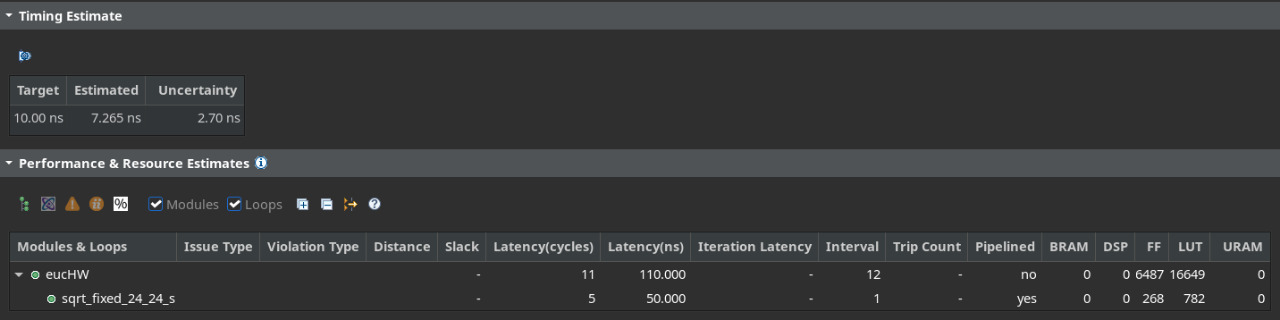
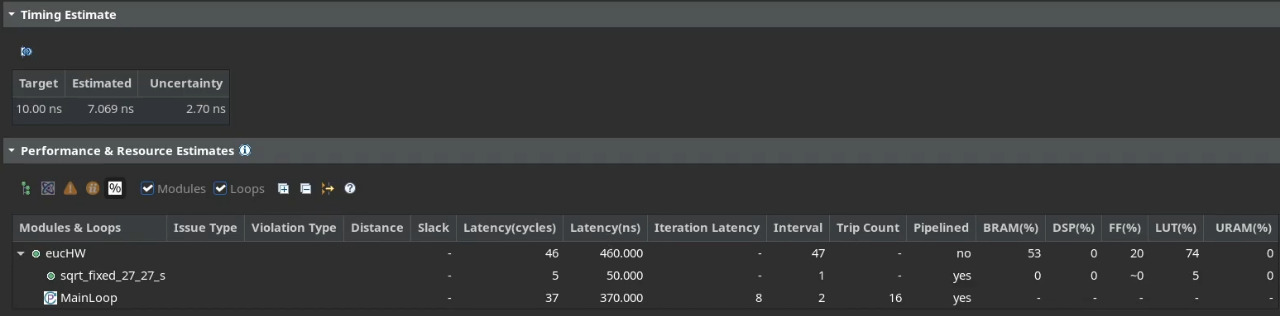
readme update

diff --git a/README.md b/README.md
@@ -47,7 +47,7 @@ Para reproducir la síntesis del coprocesador mediante Vitis HLS se utilizan los
 
 ##### Tamaño del vectores de entrada y tipo de variable de salida
 
-Para esta experiencia se busca experimentar con distintos tamaños de vectores, por lo que, modificando el codigo fuente en ``` \VITIS_HLS_SRC\specs.h``` se puede modificar para obtener distintos tamaños de vector de entrada así como distintos tipos de variable resultante.
+Para esta experiencia se busca experimentar con distintos tamaños de vectores, así como con distintos tipos de variables resultante, por lo que, modificando el codigo fuente en ``` \VITIS_HLS_SRC\specs.h``` se puede configurar los parametros para obtener el diseño deseado.
 
 * Para vectores de tamaño 1024 palabras entre las lineas 14 y 18 dejar de la siguiente forma
 ```c
@@ -77,13 +77,14 @@ typedef float Tout;         /* Version punto flotante */
 //typedef uint32_t Tout;        /* Version entero sin signo */
 ```
 
-##### Síntesis
-El proceso de síntesis es el mismo para todos los disenos implementados.
+##### Síntesis  
+El proceso de síntesis es el mismo para todos los diseños a implementar.
 * Sintetizar el proyecto haciendo click en el botón ```Run``` de la barra superior del Software o  ```Run C Synthesis ``` ubicado en la sección ```Flow Navigator```.
- Si todo ha ido como corresponde, la síntesis debiese entregar resultados satisfactorios como los que se muestran en la Figura siguiente, cumpliendo con las restricciones de <em>timing</em> (sin <em>slack</em> negativo), y un uso de recursos  fisicamente implementable en la tarjeta de desarrollo a utilizar.
- En la Figura a continuación se muestra los resultados de sintesis para 1024 palabras para un resultado de punto flotante precisión simple:
 
-cambiar imagen ajaj
+ Si todo ha ido como corresponde, la síntesis debiese entregar resultados satisfactorios cumpliendo con las restricciones de <em>timing</em> (sin <em>slack</em> negativo), y un uso de recursos  fisicamente implementable en la tarjeta de desarrollo a utilizar.
+
+ En la Figura a continuación se muestra los resultados de sintesis para 1024 palabras para un resultado del tipo entero sin signo de 32 bits:
+
 ![Device part.](/Imagenes_Readme/performance_hls.png)
 
 * Para validar el diseño se ejecuta la Cosimulación  haciendo click en botón de ``` Run Cosimulation ``` ubicado en la sección ```Flow Navigator ```.
@@ -95,7 +96,20 @@ cambiar imagen ajaj
 En esta sección se explica el uso de los pragmas implementados al realizar la sección anterior, siguiendo la función definida en \SRC_VITIS_HLS\EucHW.cpp.
 
 * ```pragma ARRAY_PARTITION``` Este comando separa un arreglo de datos y genera arreglos más pequeños o de un solo elemento almacenandolos en bloques de memoria RAM individuales.
-* ```pragma INTERFACE``` escribir algo porfavor ... :(
+ Sintaxis:
+ ```c
+ #pragma HLS array_partition variable=<name> <type>  factor=<int>
+ ```
+  Donde ```variable``` especifica la variable a la cual se le aplica la directiva, ```type``` sporta block, cyclic y complete, que determinan la forma en que se re ordenan los datos. ```factor``` indica el largo en unidades de cada particion generada.
+* ```pragma INTERFACE``` Este comando define como seran creados los puertos en el momento de la síntesis.
+Sintaxis:
+```c
+#pragma HLS interface mode=<mode> port=<name> storage_impl=<name>
+```
+Donde ```mode``` especifica el el protocolo a utilizar en el puerto. ```port``` representa el nombre del argumento de la función al cual se le aplicara el protocolo especificado.
+
+Finalmente la función ```main``` del diseño queda como se muestra a continuación:
+
 ```cpp
 void eucHW(Tout *y_sqrt, T x[2*LENGTH])
 {
@@ -134,23 +148,34 @@ void eucHW(Tout *y_sqrt, T x[2*LENGTH])
 
 
 Para cualquier diseno de coprocesador que se desee implementar, los pasos a seguir son equivalentes:
-* Crear un nuevo proyecto de vivado.
-* Seleccionar la tarjeta Nexys4 DDR en la pestana Boards.
-* Una vez creado el proyecto, importar el archivo zybo.XCD presente en el repositorio.
-* Crear un bloque de diseno
-* Una vez creado, anadir los componentes zynq7, conncat, gpio axis.
-* En el procesador zynq7, activar las interrupciones con PL-PS, y cambiar las frecuecias 60 procesador, 100 PL.
-* En el puerto axis gpio, mostrar solo las salidas, las cuales se deben configurar para un vector de 2 bits. Activar las interrupciones.
-* Anadir un puerto de salida, para conectar en ellos los puertso pmod JB descomentados en el archivo XCD.
-* Conectar el puerto de salida jb[1:0] con la salida del axis gpio.
-* Conectar las interrupciones con la entrada del modulo concat.
-* Abrir el catalogo IP, anadir el bloque ip para el diseno de coprocesador deseado, los cuales se encuentran en la carpeta IP SRC del repositorio.
-* Anadir el bloque al diagrama, conectar la interrupcion al bloque concat.
-* Conectar la salida del bloque concat al puerto de interrupciones de procesador zynq7.
-* Correr las conecciones automaticas del bloque, verificar.
-* Generar bitstream.
-* Exportar hardware
- 
+* Abrir Vivado y crear un nuevo proyecto con ```Create Project```.
+* En la sección ```Project name``` elegir un nombre y directorio para el proyecto. Avanzar.
+* En la secció ```Project type``` conservar las configuraciones  ```RTL project``` y todas las demas casillas desmarcadas.
+* En ```Add Source``` click en siguiente (no se necesitan fuentes para este proyecto).
+* En ```Add Constraints``` click en  ```Add File``` y seleccionar el archivo ```zybo.XDC``` presente en el respoitorio.
+* En ```Default Part```, ```Boards``` elegir ```ZYBO```, si es necesario, descargar y Finalizar.
+* En ```Flow navigator```, ```IP INTEGRATOR``` seleccionar ```Create Block Design```.
+* Una vez abierto, añadir los siguientes componentes con sus respectivas configuraciones:
+  * ZYNQ7 Processing System -> Re-customize IP:
+    * Interrupts, Fabric Interrupts, PL-PS Interrupt Ports, IRQ_F2P
+    * Clock Configuration, Input Frequency (MHz) = 60, PL Fabric Clocks, FCLK_CLK0 = 100
+  * AXI GPIO -> Re-customize IP:
+    * IP Configuration, All Output ; GPIO Width = 2 ; Enable Interrupts
+  * Concat
+  * Pueto de salida jb -> Design, click derecho, Create Port:
+   * Port name = jb; Direction = output; Type = Data; Create vector: from 1 to 0.
+* Abrir Flow Navigator, Project Manager, IP Catalog y con click derecho en este abrir la opción ```Add Repository``` y añadir el bloque ip para el diseño de coprocesador deseado, los cuales se encuentran en la carpeta ```IP_SRC``` de este repositorio.
+* Conectar manualmente los sigueintes puertos :
+  * Puerto jb[1:0] con la salida de AXI GPIO, gpio_io_o[1:0].
+  * ip2intc_irpt de AXI GPIO con una de las entradas del modulo Concat.
+  * interrupt del bloque Euchw a una de las entradas del modulo Concat.
+  * dout del modulo Concat al puerto IRQ_F2P[0:0] del modulo ZYNQ7.
+* Correr ```Run Block Automation```, ```Run Connection Automation``` (marcando todas las casillas).
+* Verificar el diseño con ```Validate Design``` (dos veces si es necesario).
+* En Soruce, click derecho en design_1, Create HDL Wrapper, Let Vivado manage wrapper and auto-update, OK.
+* En Flow Navigator, Program and debug, Generar bitstream.
+* En File, Exportar hardware.
+
 #### Implementación usando Vitis
 
 ##### Video tutorial
